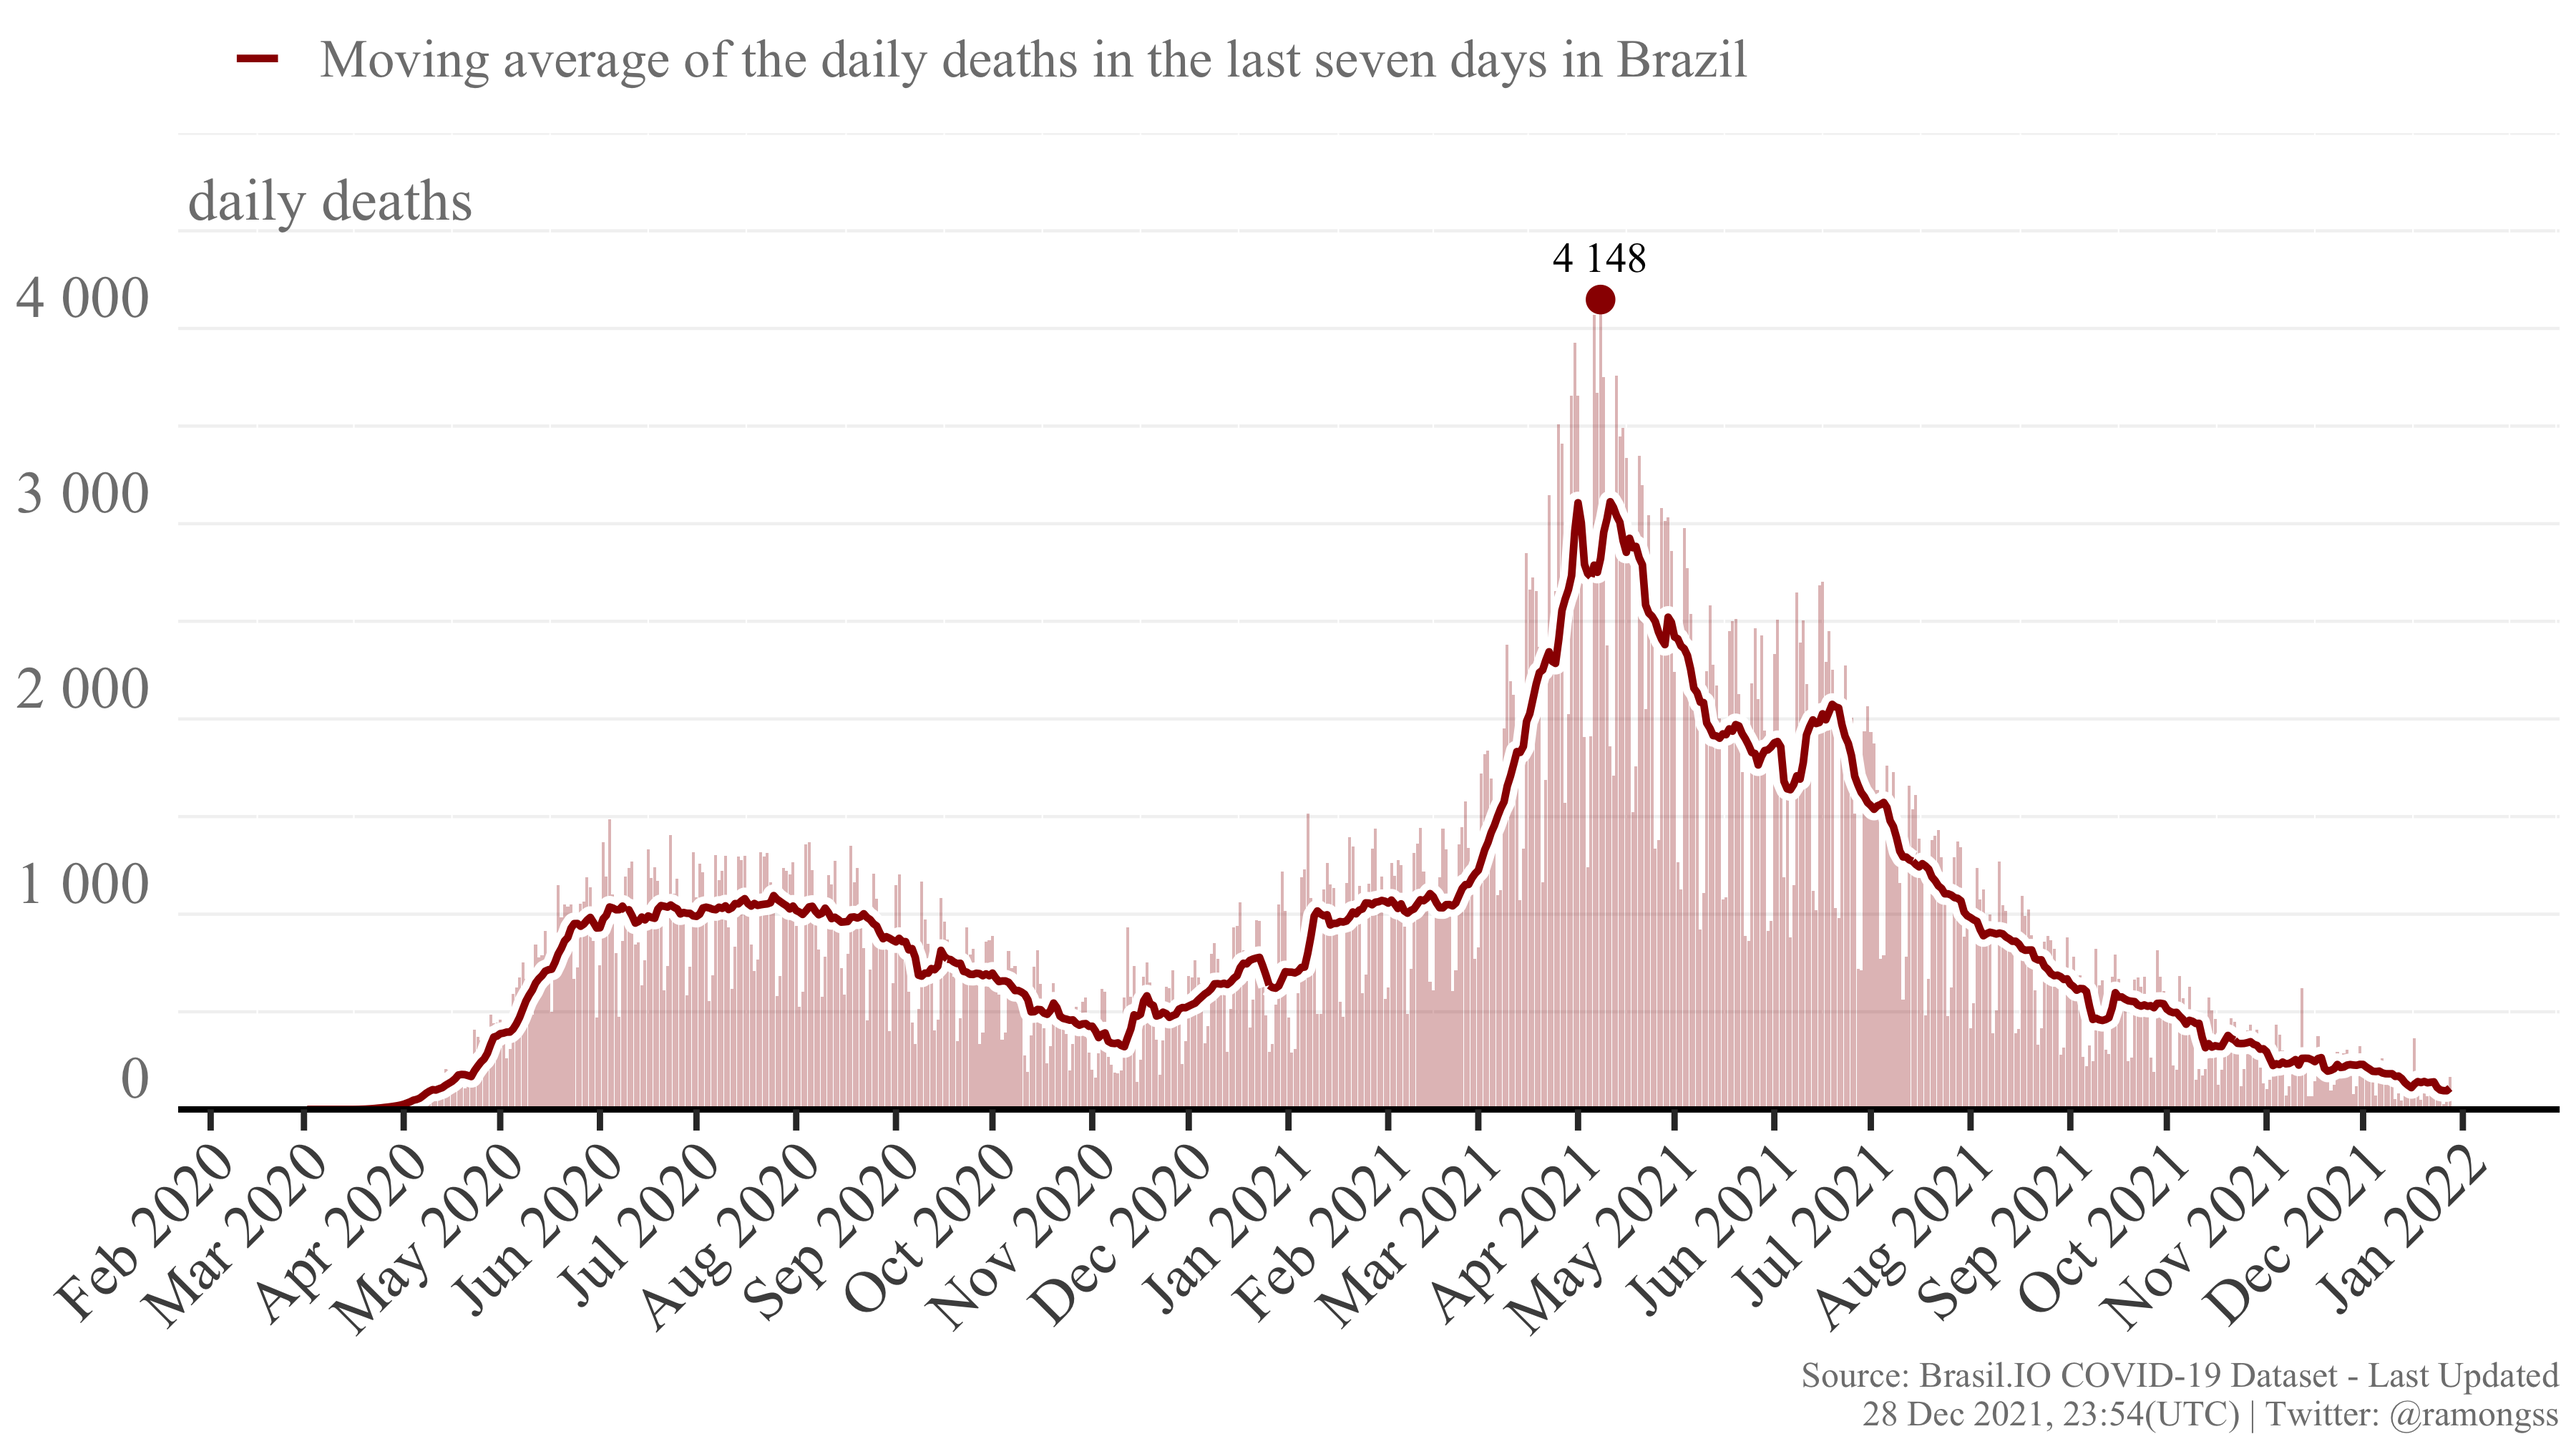
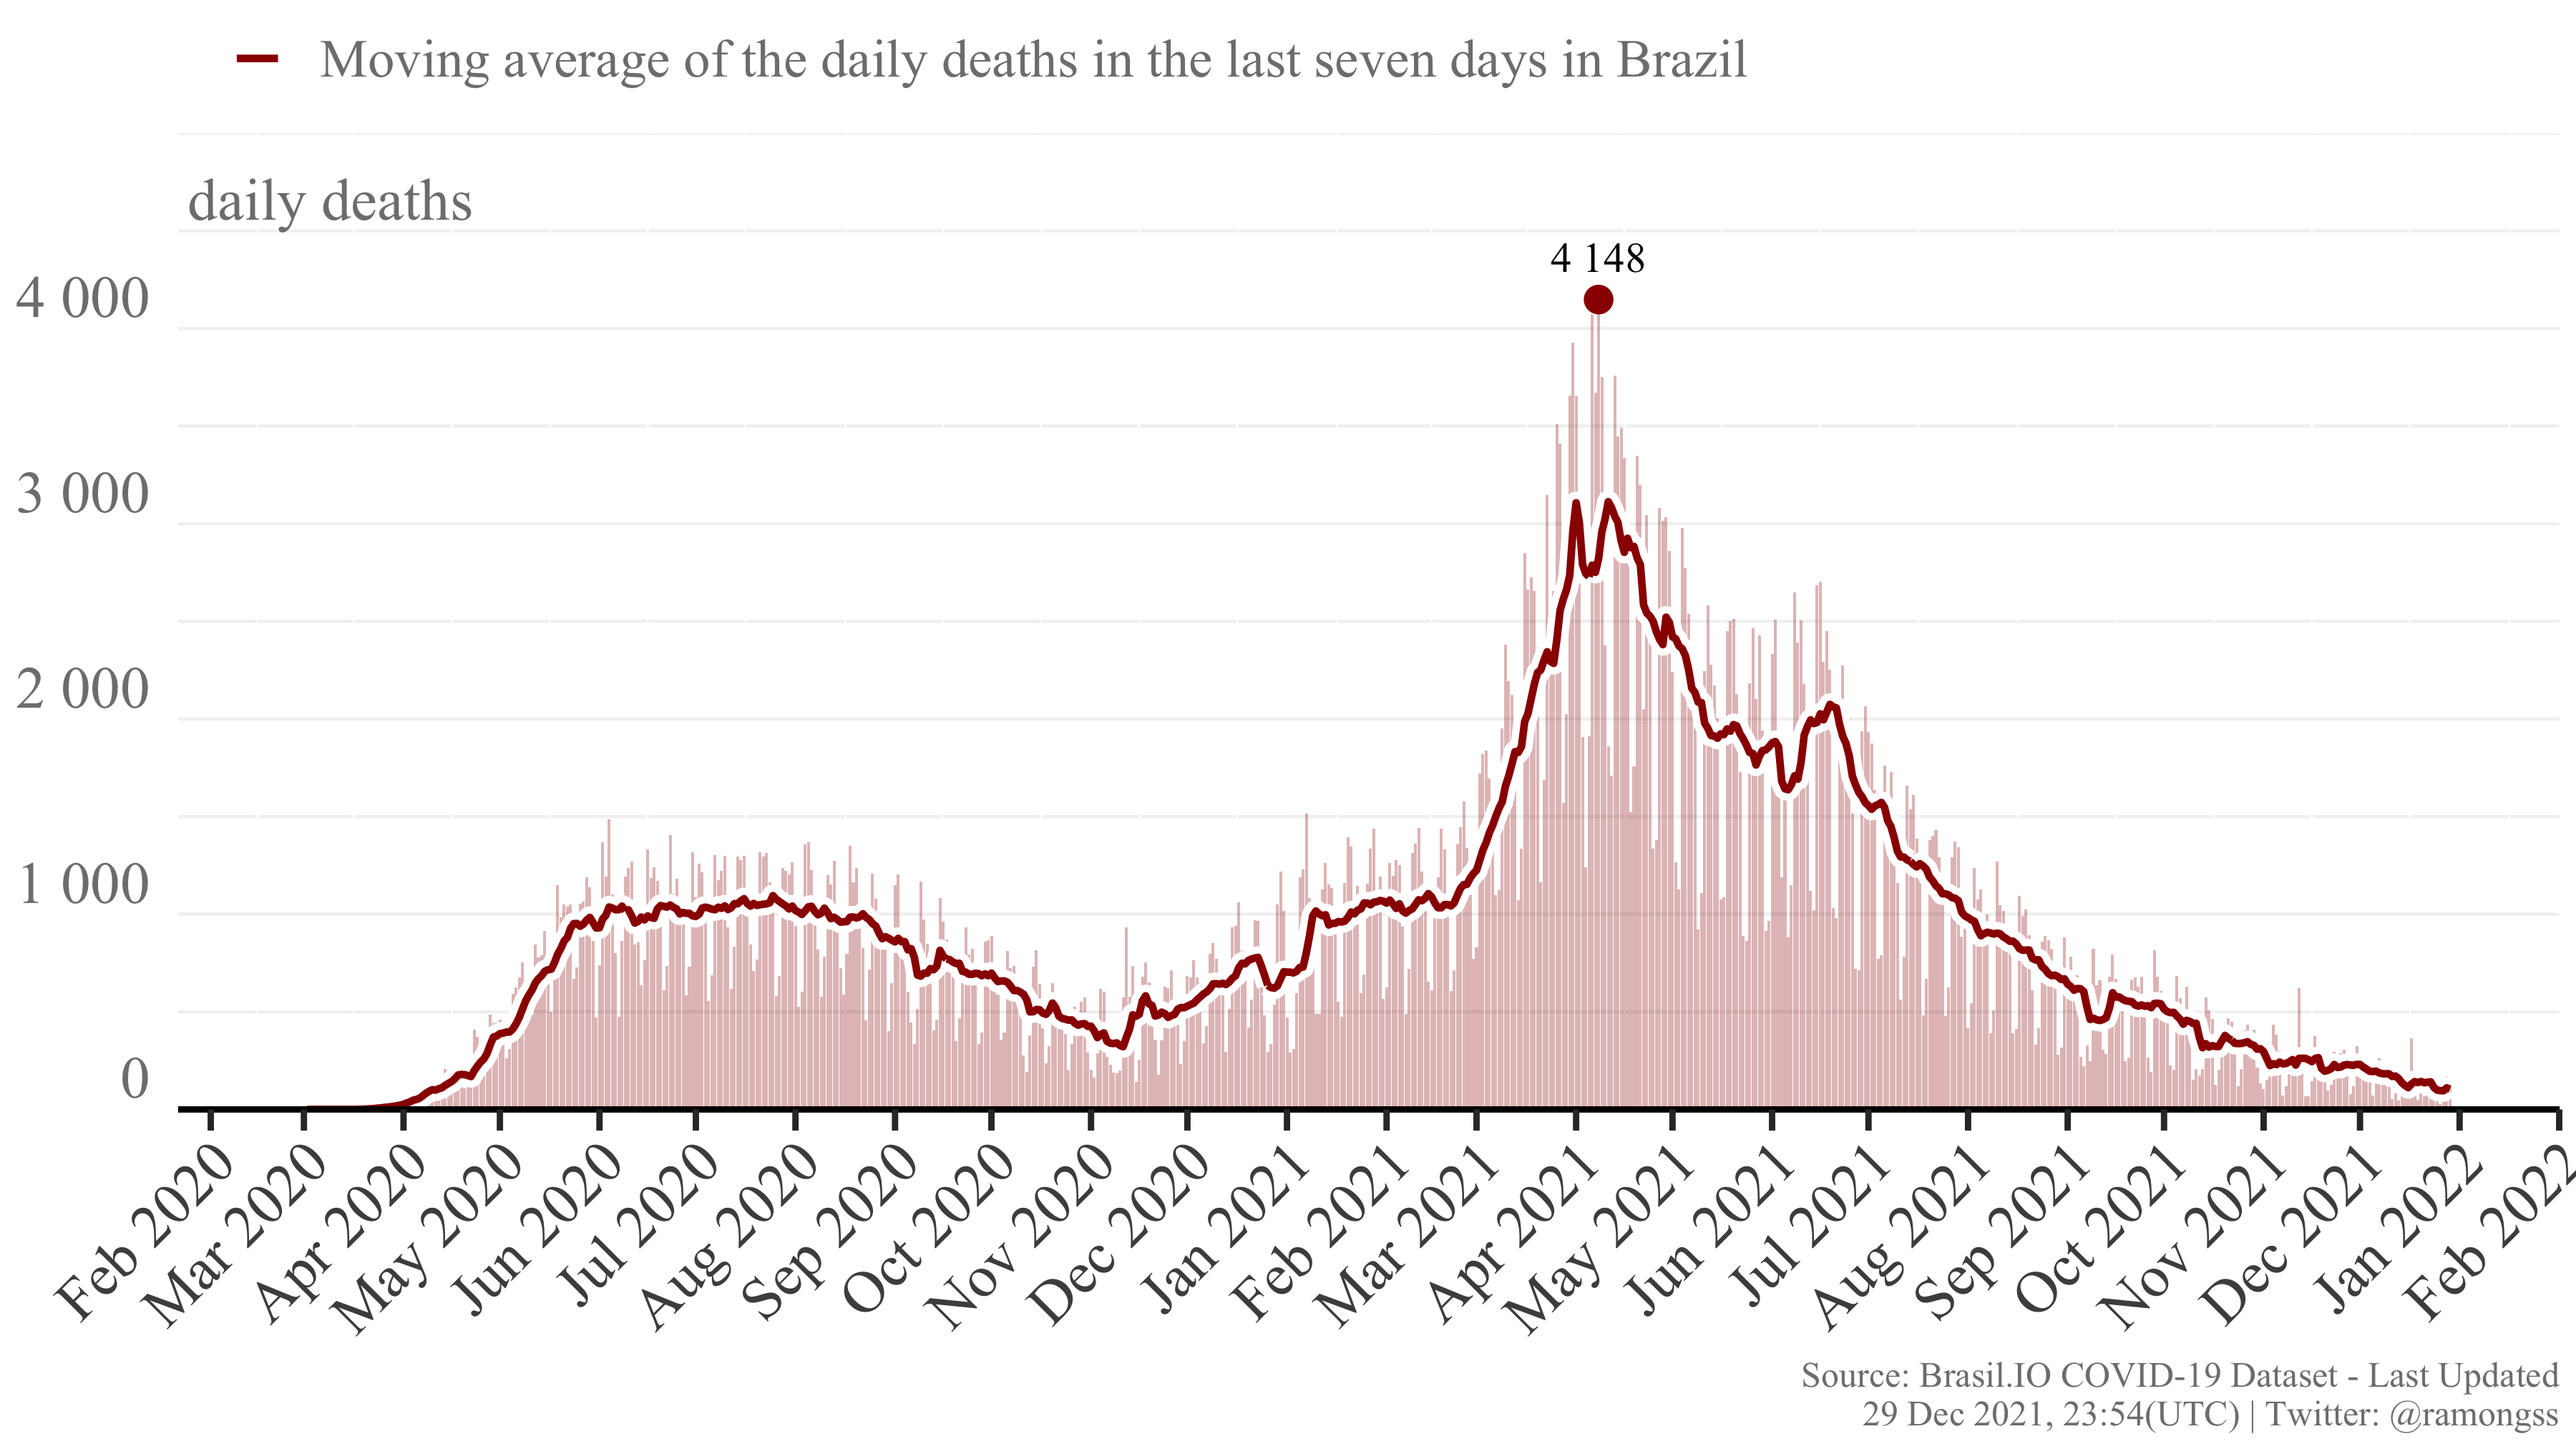
Re-build README.Rmd

diff --git a/README.md b/README.md
@@ -27,8 +27,8 @@ download_brasilio_table <- function(dataset = "covid19", table_name){
 
 ## COVID-19 Confirmed cases
 
-Currently, Brazil has a total of **22,259,270** confirmed cases at **28
-Dec, 2021**, with **7,859** new confirmed cases. The daily maximum
+Currently, Brazil has a total of **22,269,031** confirmed cases at **29
+Dec, 2021**, with **8,969** new confirmed cases. The daily maximum
 incidence was **124,878** confirmed cases at **18 Sep, 2021**. Here
 follows the Figure showing the confirmed case incidence as the bars, and
 the line as the moving average of the last 7 days.
@@ -37,8 +37,8 @@ the line as the moving average of the last 7 days.
 
 ## COVID-19 Deaths
 
-Currently, Brazil has a total of **618,978** deaths at **28 Dec, 2021**,
-with **165** new deaths. The daily maximum deaths incidence was
+Currently, Brazil has a total of **619,095** deaths at **29 Dec, 2021**,
+with **112** new deaths. The daily maximum deaths incidence was
 **4,148** deaths at **08 Apr, 2021**. Here follows the Figure showing
 the deaths incidence as the bars, and the line as the moving average of
 the last 7 days.
@@ -49,4 +49,4 @@ the last 7 days.
 
 This page is daily updated automatically using Github Actions.
 
-*Last update: 28 Dec 2021, 23:54 (UTC).*
+*Last update: 29 Dec 2021, 23:54 (UTC).*
